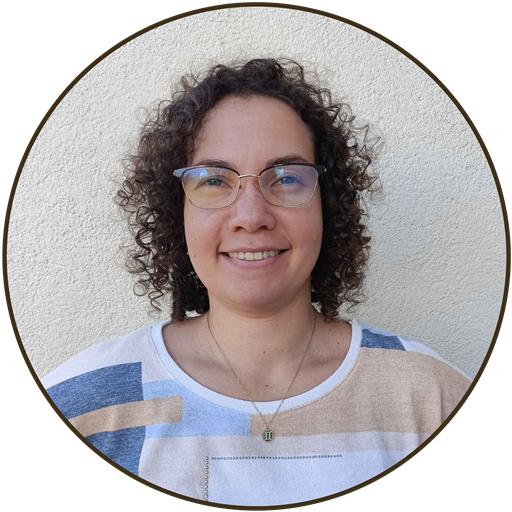
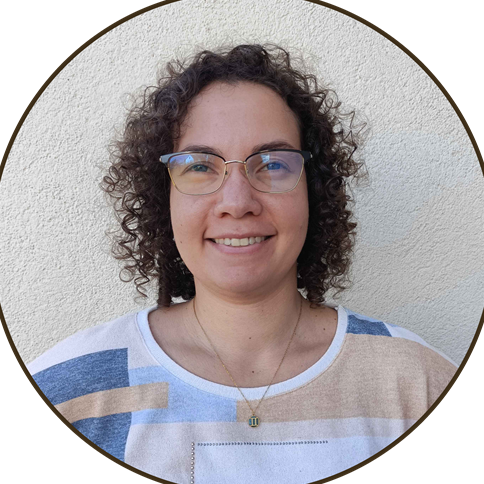
Bureau/accueil: white cards, name+role bubble, crop Camille photo; rename studio AmigauxCamz

diff --git a/bureau.html b/bureau.html
@@ -19,8 +19,8 @@
 <div id="menu-placeholder"></div>
 
 <div class="under-menu">
-<section class="banner">
-    <h1>Notre équipe de passionnés</h1>
+<section class="text-container jam-intro">
+    <h2>Notre équipe de passionnés</h2>
   </section>
 <section class="wrapper">
   
@@ -29,75 +29,69 @@
     <div class="card-inner">
       <div class="card-front">
         <img src="img/team/Justine.jpg" alt="Avatar">
-        <span class="card-role">Présidente</span>
+        <span class="card-role"><b>Justine PITELET</b><br><span class="jam-authors">Présidente</span></span>
       </div>
       <div class="card-back">
         <p>Placeholder pour du texte</p>
       </div>
     </div>
-    <h3 class="card-name">Justine PITELET</h3>
   </div>
   <div class="card">
     <div class="card-inner">
       <div class="card-front">
         <img src="img/team/Photo_David_2024.png" alt="Avatar">
-        <span class="card-role">Trésorier</span>
+        <span class="card-role"><b>David Ducourthial</b><br><span class="jam-authors">Trésorier</span></span>
       </div>
       <div class="card-back">
         <p>Placeholder pour du texte</p>
       </div>
     </div>
-    <h3 class="card-name">David Ducourthial</h3>
   </div>
   <div class="card">
     <div class="card-inner">
       <div class="card-front">
         <img src="img/team/Camille.png" alt="Avatar">
-        <span class="card-role">Secrétaire</span>
+        <span class="card-role"><b>Camille LESCOP-LE BIDEAU</b><br><span class="jam-authors">Secrétaire</span></span>
       </div>
       <div class="card-back">
         <p>Placeholder pour du texte</p>
       </div>
     </div>
-    <h3 class="card-name">Camille LESCOP-LE BIDEAU</h3>
   </div>
   <div class="card">
     <div class="card-inner">
       <div class="card-front">
         <img src="img/team/Eliot.jpg" alt="Avatar">
-        <span class="card-role">Membre CA</span>
+        <span class="card-role"><b>Eliott CHAPUT</b><br><span class="jam-authors">Membre CA</span></span>
       </div>
       <div class="card-back">
         <p>Placeholder pour du texte</p>
       </div>
     </div>
-    <h3 class="card-name">Eliott CHAPUT</h3>
   </div>
   
   <div class="card">
     <div class="card-inner">
       <div class="card-front">
         <img src="img/team/Romain.png" alt="Avatar">
-        <span class="card-role">Membre CA</span>
+        <span class="card-role"><b>Romain GUSMANO</b><br><span class="jam-authors">Membre CA</span></span>
       </div>
       <div class="card-back">
         <p>Placeholder pour du texte</p>
       </div>
     </div>
-    <h3 class="card-name">Romain GUSMANO</h3>
   </div>
   
   <div class="card">
     <div class="card-inner">
       <div class="card-front">
         <img src="img/team/Aurh1l.png" alt="Avatar">
-        <span class="card-role">Membre CA</span>
+        <span class="card-role"><b>Aurh1l</b><br><span class="jam-authors">Membre CA</span></span>
       </div>
       <div class="card-back">
         <p>Placeholder pour du texte</p>
       </div>
     </div>
-    <h3 class="card-name">Aurh1l</h3>
   </div>
 </section>
 </div>

diff --git a/style/bureau.css b/style/bureau.css
@@ -1,7 +1,7 @@
 
 .team-container {
   font-family: Arial, sans-serif;
-  align-items: baseline;
+  align-items: flex-start;
   display: flex;
   gap: 30px;
   flex-wrap: wrap;
@@ -12,7 +12,7 @@
 .card {
   perspective: 1000px;
   width: 200px;
-  height: 250px !important;
+  height: 280px !important;
   position: relative;
   text-align: center;
     background-color: transparent !important;
@@ -48,12 +48,17 @@
 }
 
 .card-front {
-  background-color: var(--item-color);
+  background-color: transparent;
+  box-shadow: none;
+  flex-direction: column;
+  justify-content: flex-start;
+  gap: 8px;
+  padding: 0;
 }
 
 .card-front img {
-  width: 150px;
-  height: 150px !important;
+  width: 200px;
+  height: 200px !important;
   border-radius: 50%;
   object-fit: cover;
 }
@@ -68,28 +73,12 @@
   justify-content: center;
 }
 
-.card-name {
-  display: inline-block;
-  margin-top: 10px;
-  padding: 5px 10px;
-  font-size: 18px;
-  color: #fff;
-  background-color: rgba(0,0,0,0.6);
-  border-radius: 10px;
-  user-select: text;
-  box-shadow: 0 2px 5px rgba(0,0,0,0.3);
-}
-
 .card-role {
-  position: absolute;
-  bottom: 10px;
-  left: 50%;
-  transform: translateX(-50%);
   padding: 4px 8px;
-  background-color: rgba(0,0,0,0.6);
-  color: #fff;
+  background-color: #fff;
+  color: #000;
   font-size: 14px;
+  line-height: 1.2;
   border-radius: 8px;
   box-shadow: 0 2px 4px rgba(0,0,0,0.3);
-  pointer-events: none;
 }

diff --git a/index.html b/index.html
@@ -18,8 +18,8 @@
 
 <div class="under-menu">
 
-<section class="banner">
-    <h1>Bienvenue sur le site de Clermont Game Dev !</h1>
+<section class="text-container jam-intro">
+    <h2>Bienvenue sur le site de Clermont Game Dev !</h2>
     <p>Association loi 1901 dont la mission est de rassembler, autour d’événements variés, les professionnels et étudiants du jeu vidéo de Clermont-Ferrand et de ses environs. L’objectif est de développer l’écosystème local du jeu vidéo pour le rendre plus fort et dynamique</p>
   </section>
 

diff --git a/scripts/studios.js b/scripts/studios.js
@@ -14,7 +14,7 @@ const studios = [
         ]
     },
     {
-        nom: "Camille",
+        nom: "AmigauxCamz",
         logo: "img/studios/camille/Logo_ZS001.png",
         jeux: [
             { nom: "Zoeufs Story", img: "img/studios/camille/BaniereZSA_01.png", link: "https://store.steampowered.com/app/4916280/" }
